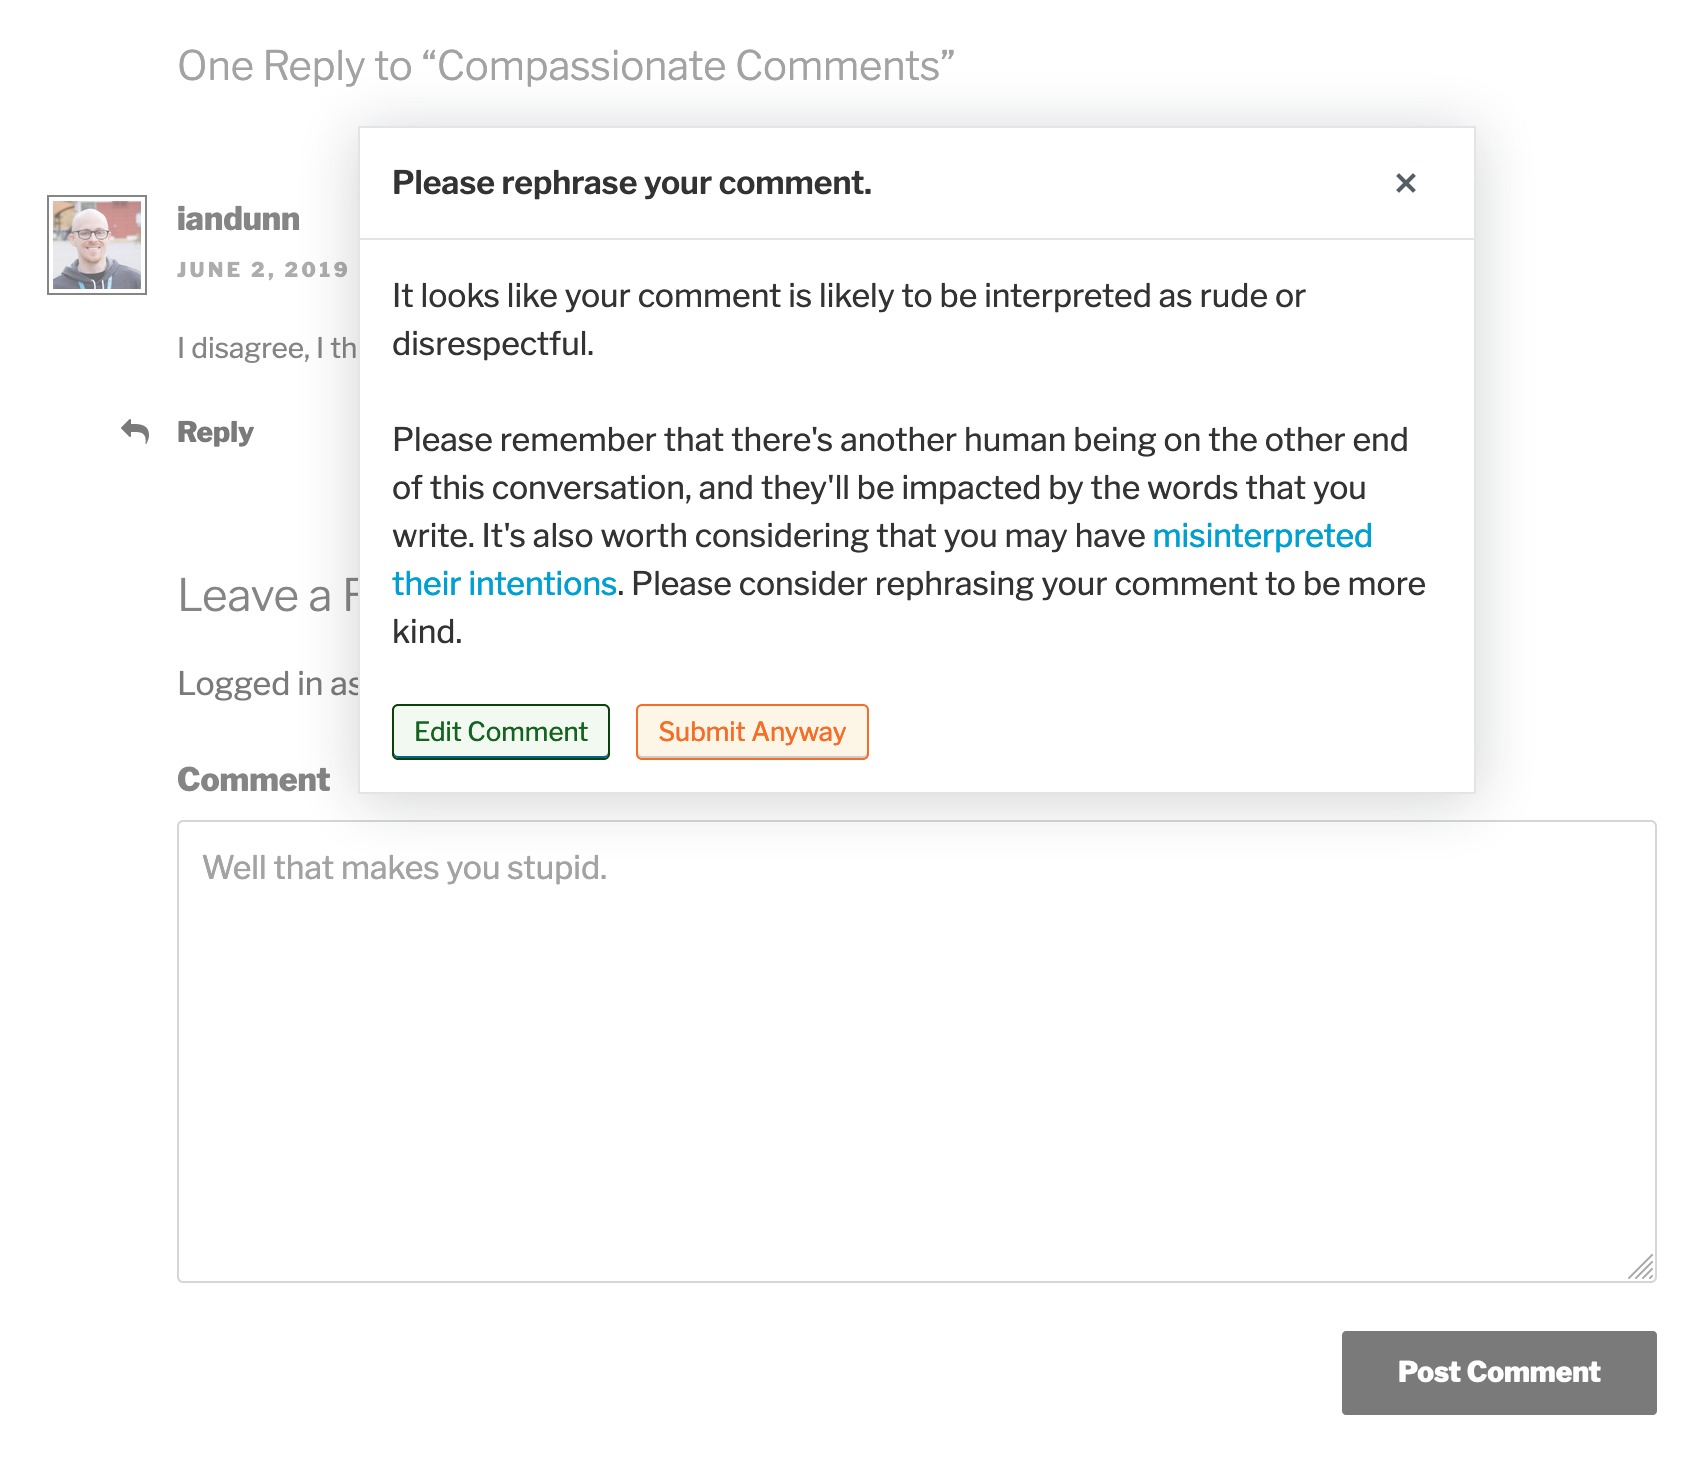
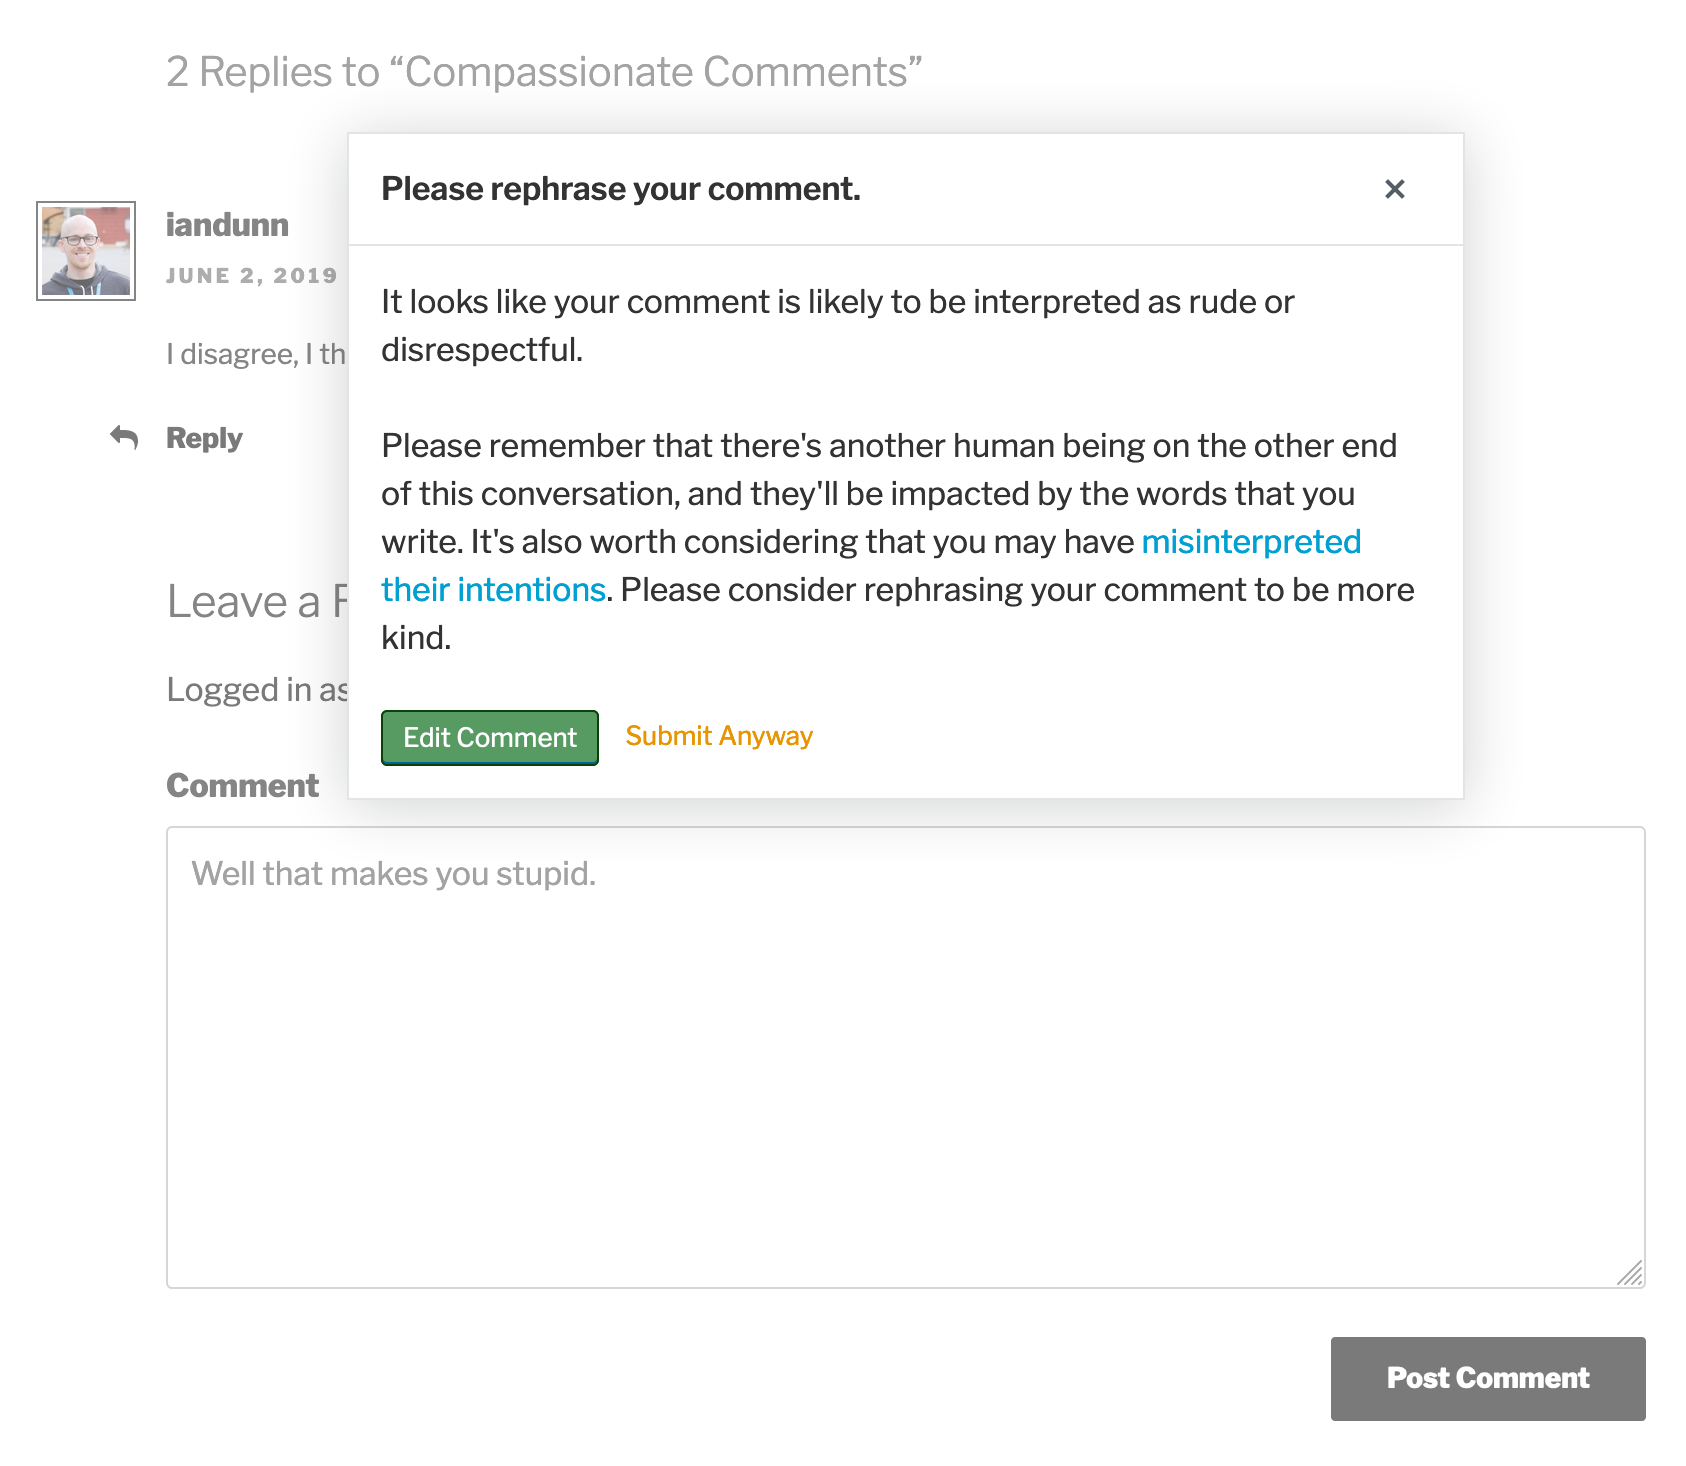
Make primary button stand out more

diff --git a/front-end/front-end.css b/front-end/front-end.css
@@ -30,16 +30,15 @@
 	*/
 
 	#compassionate-comments__nudge .components-button.is-primary {
-		background-color: rgba(121, 195, 121, 0.1);
+		background-color: rgba( 50, 133, 64, 0.82 );
 		border-color: #0b420b;
-		color: #15631e;
+		color: white;
 		text-shadow: none;
 		font-weight: normal;
 	}
 
 	#compassionate-comments__nudge .components-button.is-default {
-		background-color: #e9a9351f;
-		border-color: #F56E28;
-		color: #F56E28;
 		font-weight: normal;
+		text-decoration: none;
+		color: #e79500;
 	}

diff --git a/front-end/main/view.js b/front-end/main/view.js
@@ -58,7 +58,7 @@ function Toxic( props ) {
 			</Button>
 
 			{/* todo add isBusy to button when submitting comment? or not necessary b/c it'll be done via php? */}
-			<Button isDefault isDestructive name="cc_submit_anyway" onClick={ handleSubmitAnyway }>
+			<Button isDefault isDestructive isLink name="cc_submit_anyway" onClick={ handleSubmitAnyway }>
 				{ __( 'Submit Anyway', 'compassionate-comments' ) }
 			</Button>
 		</div>

diff --git a/TODO.md b/TODO.md
@@ -19,7 +19,6 @@
 	* setup svn:ignores for things that are only in the dev
 	* add screenshots and banner assets
 	* delete screenshot from git repo and link to w.org CDN instead
-	* create video similar to QNI, link to both readmes - nice to have, not blocker
 * install on iandunn.name even though don't need it, just to dogfood / catch bugs
 * Post about it on your blog
 	* just about the plugin concept/launch, not the react stuff, that'll be separate post
@@ -34,6 +33,13 @@
 	* set api key for whole network via filter, store in config
 	* disable for systems and security sites
 * let jjj know might be something interesting for bbpress, but Serious Toxic Comments plugin might be better fit b/c don't need remote API
+
+#### Stretch goals
+
+* create w.org banner image - maybe just solid bg color, heart icon, and "Compassionate Comments". maybe add a subtitle too to explain what it does in ~6 words.
+	* find an example of a good design and copy it, don't try to create from scratch yourself
+* create video similar to QNI, link to both readmes - nice to have, not blocker
+
 
 
 ## Future

diff --git a/readme.md b/readme.md
@@ -6,7 +6,7 @@ This plugin checks the intent of a comment before it's submitted. If the author 
 
 Google's free [Perspective API](https://www.perspectiveapi.com/) is used to determine the characteristics of the comment, which means that all comments will be sent to their servers for analysis. You can optionally request that they not store your comments for their future research.
 
-The inspiration for this comes from Tristan Harris' TED talk about [designing technology to reflect human values](https://www.youtube.com/watch?v=D55ctBYF3AY) and [ReThink](http://www.rethinkwords.com/).
+The inspiration for this comes from Tristan Harris' TED talk about [designing technology to reflect human values](https://www.youtube.com/watch?v=D55ctBYF3AY) and from [ReThink](http://www.rethinkwords.com/).
 
 ## Example
 
